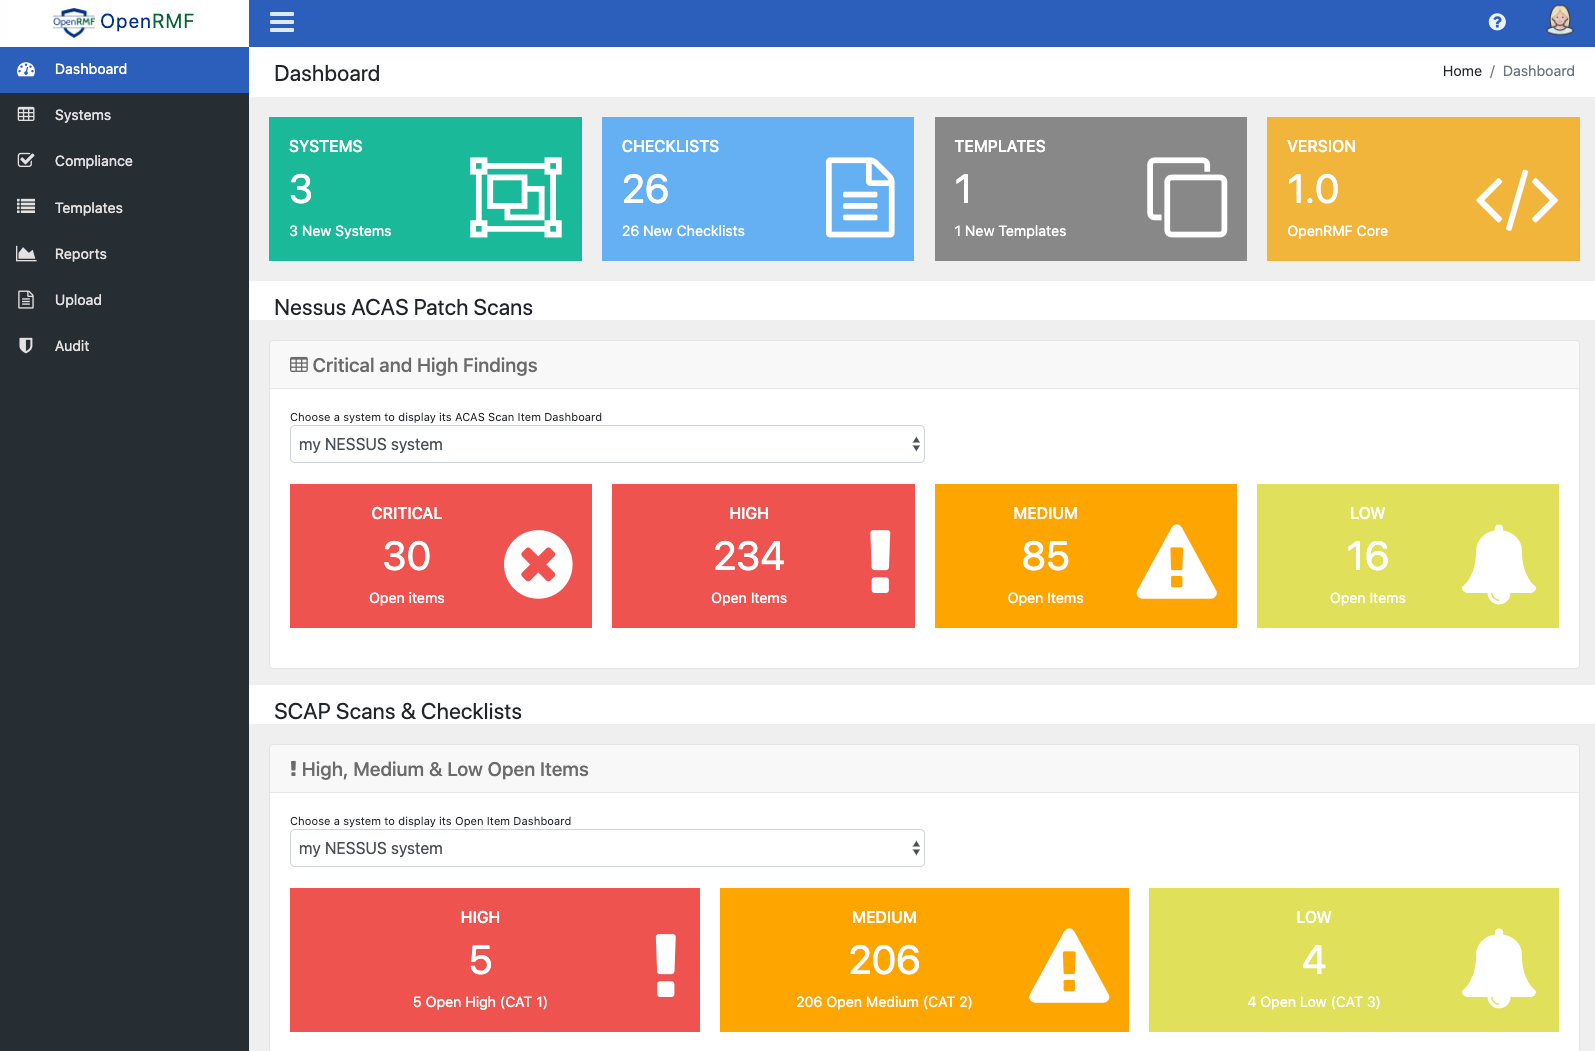
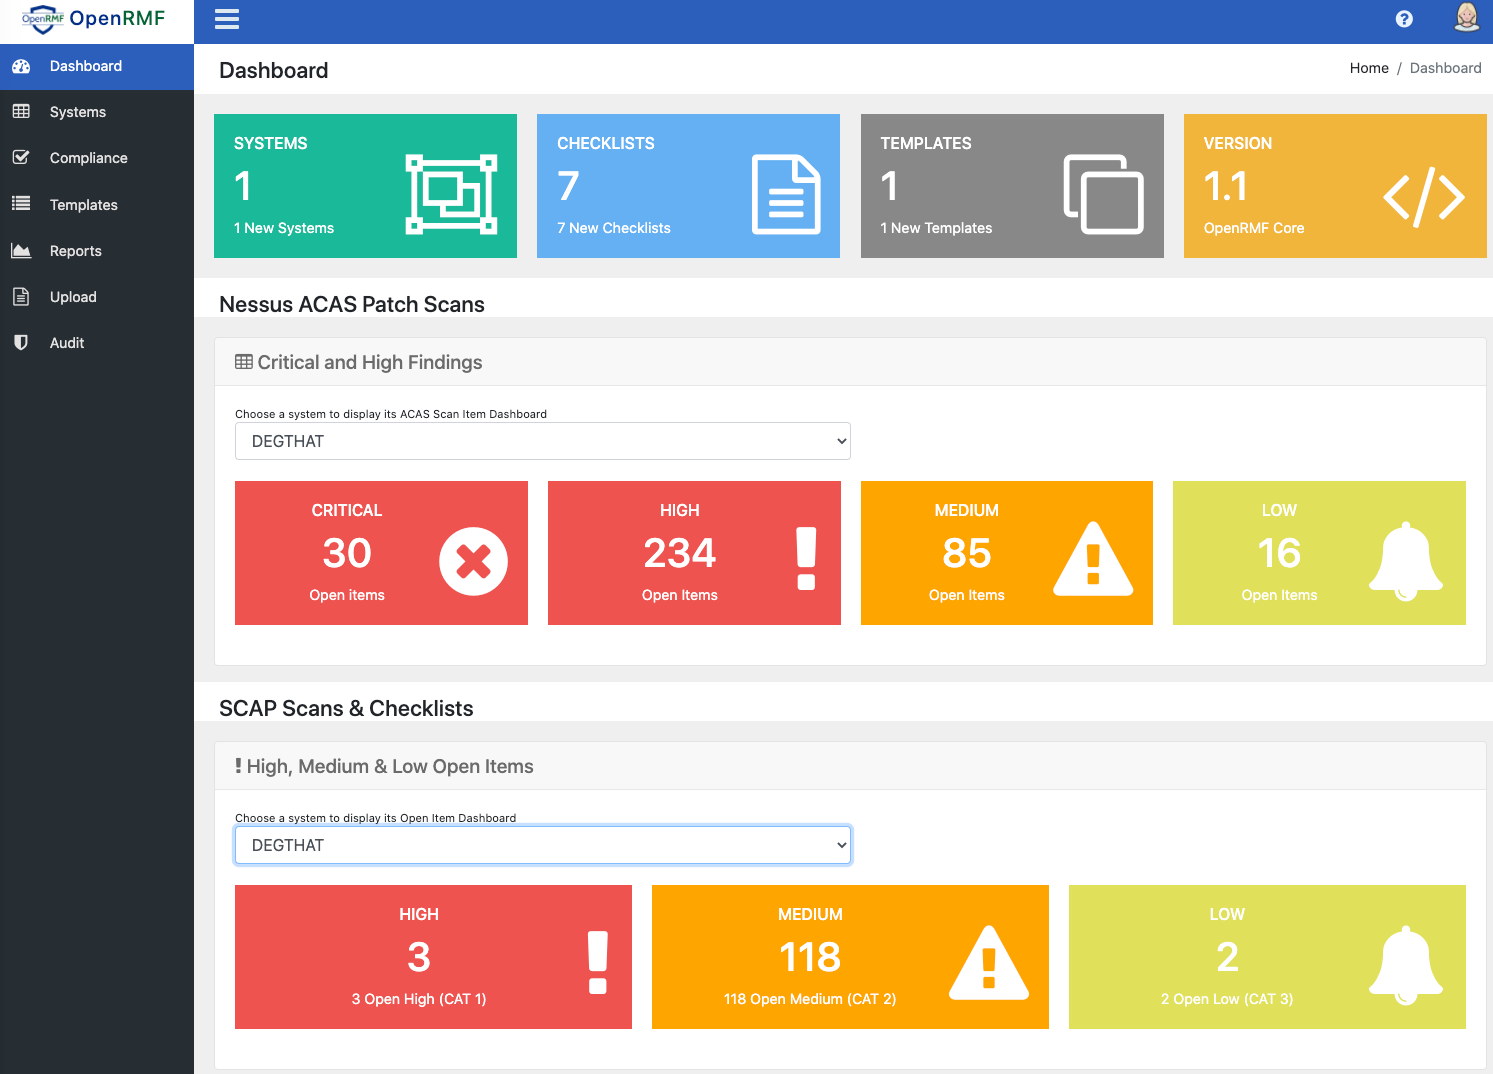
Updating to version 1.1 markings

Changed region(s): [[0.0, 0.0, 1.0, 1.0]]

diff --git a/docs/uploading.md b/docs/uploading.md
@@ -14,8 +14,8 @@ The Upload page is available to users with the Administrator or Editor role assi
 > Note: The Nessus Patch Management scan results file *.nessus is uploaded when you add or edit a System, not via the Upload page. 
 
 ## Process of Uploading SCAP results (XCCDF format .xml) or DISA StigViewer CKL files (.ckl) in OpenRMF
-https://public.cyber.mil/stigs/scap/
-https://community.tenable.com/s/article/How-to-create-a-SCAP-scan
+* [DISA SCAP Scan Information](https://public.cyber.mil/stigs/scap/)
+* [Tennable's Nessus SCAP Scan Information](https://community.tenable.com/s/article/How-to-create-a-SCAP-scan)
 
 ![OpenRMF Upload of SCAP Scan Results](/assets/OpenRMF-SCAP-Process.png)
 

diff --git a/README.md b/README.md
@@ -1,4 +1,4 @@
-# OpenRMF Documentation (v 1.0)
+# OpenRMF Documentation (v 1.1)
 
 ## Introduction to OpenRMF
 OpenRMF is an open source tool for managing, viewing, and reporting of your DoD STIG checklists and Nessus Patch Scans in one web-based interface using your browser. It also generates a compliance listing of all your checklists across a whole system based on NIST 800-53 for your Risk Management Framework (RMF) documentation and process. This tool helps you manage multiple systems going through the RMF process and allows you to structure your data in a clean interface all in one location for your group or program. 
